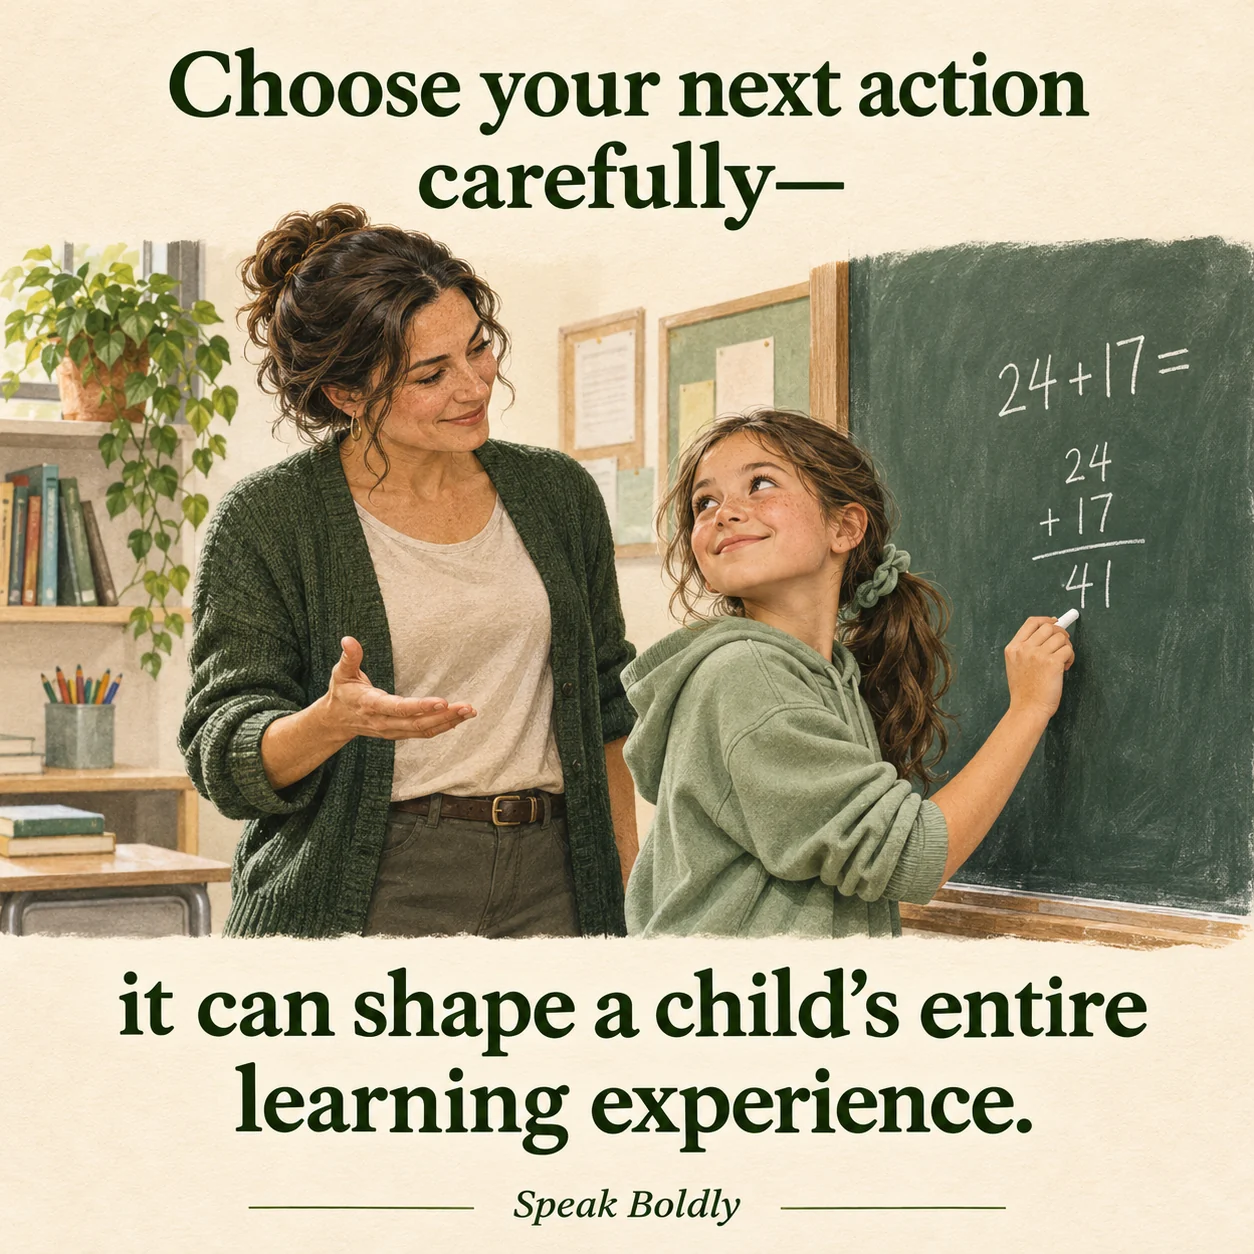
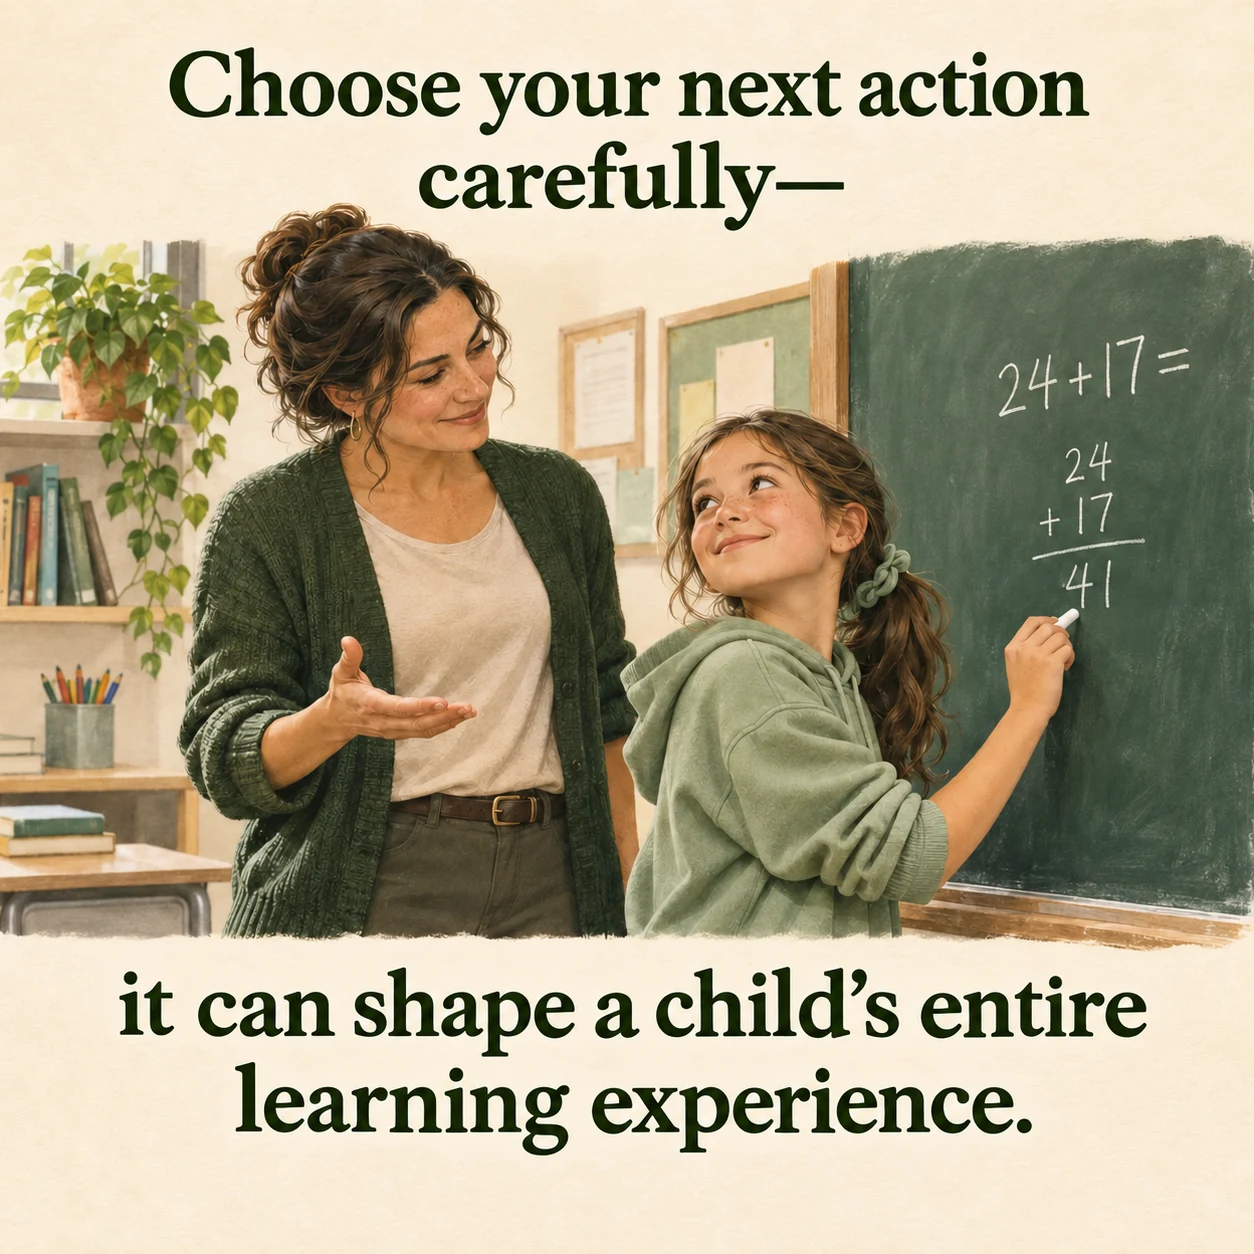
Remove Speak Boldly lettering from the current motivation picture

diff --git a/index.html b/index.html
@@ -59,7 +59,7 @@
 <button type="button" class="page-down-arrow" id="page-down-arrow" aria-label="Go to the bottom of this page" title="Go to bottom" hidden><svg width="24" height="24" viewBox="0 0 24 24" fill="none" aria-hidden="true"><path d="M12 4v15m-6-6 6 6 6-6" stroke="currentColor" stroke-width="1.6" stroke-linecap="round" stroke-linejoin="round"/></svg></button><span id="year" hidden></span>
 <dialog id="program-booking-dialog" class="action-popup" aria-labelledby="program-booking-title"><button type="button" class="popup-close" aria-label="Close booking instructions">×</button><p class="eyebrow" id="booking-program-name"></p><h2 id="program-booking-title">Before you book</h2><p>Please email a 2-minute voice note to Contactus@speakboldly.space. This helps us understand your current level.</p><button id="booking-whatsapp" class="button" type="button" disabled>WhatsApp · coming soon</button><section class="booking-2027" aria-labelledby="booking-2027-title"><h3 id="booking-2027-title">Active starting from 2027</h3><p>Complete both free tests in the <a class="email-link" href="#placement">Assessment tab</a>. Email both result screenshots and your 150 EGP payment screenshot to <a class="email-link" href="mailto:billing@speakboldly.space">billing@speakboldly.space</a> to receive available Zoom assessment times.</p><p>Your Zoom placement assessment lasts 15–20 minutes.</p></section></dialog><dialog id="course-dialog"><button class="close" aria-label="Close course details">×</button><div id="course-detail"></div></dialog>
 <dialog id="course-fees-dialog" class="action-popup" aria-labelledby="course-fees-title"><button type="button" class="popup-close" aria-label="Close session and pricing details">×</button><h2 id="course-fees-title">Session &amp; pricing details</h2><ul><li><svg class="pricing-detail-art" viewBox="0 0 60 60" fill="none" stroke="currentColor" stroke-width="1.4" stroke-linecap="round" stroke-linejoin="round" aria-hidden="true"><path d="M9 13h28l9 9v31H9ZM37 13v10h9M17 32h20M17 40h15M19 6h24l10 10v30"/><path d="m19 24 3 3 6-7"/></svg><span>Your course fees include assessments, progress reports, learning materials, and access to independent practice activities between sessions.</span></li><li><span class="inclusion-symbol" aria-hidden="true"><svg class="pricing-detail-art" viewBox="0 0 60 60" fill="none" stroke="currentColor" stroke-width="1.4" stroke-linecap="round" stroke-linejoin="round"><path d="M7 12q12-6 23 0 12-6 23 0v35q-12-6-23 0-11-6-23 0ZM30 12v35M14 23h10M36 23h10M14 31h10M36 31h10"/></svg></span><span>We use original Speak Boldly learning materials developed specifically for our courses.</span></li><li><svg class="pricing-detail-art" viewBox="0 0 60 60" fill="none" stroke="currentColor" stroke-width="1.4" stroke-linecap="round" stroke-linejoin="round" aria-hidden="true"><rect x="8" y="11" width="42" height="38" rx="3"/><path d="M8 23h42M19 5v12M40 5v12M16 30h6M29 30h6M16 40h6M29 40h6"/><path d="m41 36 3 3 6-7"/></svg><span>Each round lasts four weeks. We recommend 4–6 rounds for noticeable progress.</span></li><li><span class="inclusion-symbol" aria-hidden="true">◎</span><span>Your instructor stays the same throughout the course.</span></li><li><span class="inclusion-symbol" aria-hidden="true">↗</span><span>Always remember that <strong>Progress is a shared responsibility. Your consistency makes the difference!</strong></span></li><li><svg class="pricing-detail-art" viewBox="0 0 60 60" fill="none" stroke="currentColor" stroke-width="1.4" stroke-linecap="round" stroke-linejoin="round" aria-hidden="true"><rect x="8" y="6" width="40" height="29" rx="3"/><path d="M20 35v9M13 44h30"/><circle cx="28" cy="18" r="5"/><path d="M18 29c0-8 20-8 20 0"/></svg><span><strong>All prices are for one-to-one, 90-minute, fully interactive sessions.</strong></span></li></ul><p class="course-funding-note"><svg class="funding-heart" viewBox="0 0 60 60" fill="none" stroke="currentColor" stroke-width="1.5" aria-hidden="true"><path d="M30 46C5 31 6 13 18 12c7-1 12 7 12 7s5-8 12-7c12 1 13 19-12 34Z" fill="#edf0e6"/><path d="M5 43q15 1 24 10 8-8 25-10M15 43l4-7M45 43l-4-7"/></svg><strong>Your fees help others learn.</strong><br>Part of your course fees funds English courses for students in Egypt who cannot afford them. We aim to extend this support to Sudan and other countries soon.</p></dialog><dialog id="quote-dialog-4" class="action-popup" aria-labelledby="quote-dialog-4-title"><button type="button" class="popup-close" aria-label="Close language services enquiry">×</button><h2 id="quote-dialog-4-title">Interpret boldly</h2><p>Interpretation and translation by Speak Boldly. Tell us about your project; we’ll discuss scope, availability and a tailored quotation.</p><form class="quote-request-form" data-request-type="Interpret boldly — interpretation and translation"><label>Your name<input name="name" required maxlength="100" autocomplete="name"></label><label>Email<input name="email" required type="email" autocomplete="email"></label><label>Organisation (optional)<input name="organisation" maxlength="200"></label><label>Service<select name="service"><option>Live interpretation</option><option>Written translation</option><option>Help me choose</option></select></label><label>Languages — from and to<input name="languages" required maxlength="150" placeholder="For example: Arabic → English"></label><label>Project or event<textarea name="description" required rows="4" maxlength="3000" placeholder="Topic, audience, type of material, and any specialist terminology"></textarea></label><label>Date / deadline and time zone<input name="deadline" required maxlength="200"></label><label>Duration or approximate word count<input name="scope" required maxlength="150"></label><label>Online / venue or location<input name="location" maxlength="250"></label><label>Budget range (optional)<input name="budget" maxlength="120"></label><label>Preferred time for an initial discussion<input name="meeting" maxlength="200"></label><button class="button" type="submit">Request a conversation</button><p class="quote-email-status demo-note" role="status"></p></form></dialog><div id="toast" role="status" aria-live="polite"></div><script type="module" src="./platform-time.js?v=roomy-time"></script><script type="module" src="./app.js?v=word-stress-2"></script><script type="module" src="./navigation.js?v=review-navigation-7"></script><script>document.querySelectorAll('.quote-request-form').forEach(form=>form.addEventListener('submit',event=>{event.preventDefault();const data=new FormData(form);const subject='Quote request: '+form.dataset.requestType;const body=['Request type: '+form.dataset.requestType,...Array.from(data,([key,value])=>key+': '+value).filter(line=>!line.endsWith(': '))].join('\n\n');window.location.href='mailto:Contactus@speakboldly.space?subject='+encodeURIComponent(subject)+'&body='+encodeURIComponent(body);form.querySelector('.quote-email-status').textContent='We\'ll get back to you within 48 business hours. Please press Send in your email app to deliver your request.';}));</script><script type="module" src="./popups.js?v=mobile-assessment-page"></script><script type="module" src="./mobile-button-labels.js?v=all-buttons"></script><script type="module" src="./student-install.js?v=learning-hub"></script><script type="module" src="./installed-app-ui.js?v=app-resume"></script><script type="module" src="./pull-to-refresh.js?v=early-touch-capture"></script><script type="module" src="./popup-dismiss.js?v=outside-tap"></script><script type="module" src="./save-feedback.js?v=registration-approval"></script>
-<script type="module" src="./section-guides.js?v=culture-corner-2"></script><script type="module" src="./program-consultation.js?v=success-return-1"></script><script type="module" src="./mobile-swipe-back.js?v=1"></script><script type="module" src="./homepage-fit.js?v=screen-fit"></script><script type="module" src="./feature-loader.js?v=reload-chooser-19"></script><script type="module" src="./loading-ui.js?v=green-ring"></script><script type="module" src="./public-tab-addresses.js?v=speak-hub-3"></script><script type="module" src="./rewards.js?v=covered-wheel-4"></script></body></html>
+<script type="module" src="./section-guides.js?v=culture-corner-2"></script><script type="module" src="./program-consultation.js?v=success-return-1"></script><script type="module" src="./mobile-swipe-back.js?v=1"></script><script type="module" src="./homepage-fit.js?v=screen-fit"></script><script type="module" src="./feature-loader.js?v=unbranded-motivation-20"></script><script type="module" src="./loading-ui.js?v=green-ring"></script><script type="module" src="./public-tab-addresses.js?v=speak-hub-3"></script><script type="module" src="./rewards.js?v=covered-wheel-4"></script></body></html>
 
 
 

diff --git a/feature-loader.js b/feature-loader.js
@@ -10,7 +10,7 @@ export function initializeFeatureLoader(doc,win){
   'students-portal':['./learning-hub-entry.js?v=reload-chooser-11'],
   'assessment':['./placement-assessment.js?v=brief-personal-2'],
   'reviews':['./reviews.js?v=complete-cards-4'],
-  'daily-quote':['./home-gallery.js?v=math-email-6'],
+  'daily-quote':['./home-gallery.js?v=unbranded-motivation-7'],
   'learner-profile':['./learner-profile.js?v=brief-personal-2'],
   'learner-results':['./learner-profile.js?v=brief-personal-2'],
   'boldly-notes':['./boldly-notes.js?v=consistency-words-5']
@@ -26,7 +26,7 @@ export function initializeFeatureLoader(doc,win){
 
  async function load(){const key=win.location.hash.slice(1).split('/')[0],modules=groups[key];if(key==='assessment'){void assessment();return;}if(key==='students-portal'&&win.location.hash.endsWith('/teacher'))void ensureAdmin();if(!modules||pending.has(key))return;const root=doc.getElementById(key);if(!root)return;const spinner=doc.createElement('p');if(key==='daily-quote')spinner.hidden=true;spinner.className='sb-loading';spinner.dataset.loading='true';spinner.setAttribute('role','status');spinner.setAttribute('aria-label','Loading');root.prepend(spinner);const buttons=key==='students-portal'?[...root.querySelectorAll('[data-portal-area]')]:[];buttons.forEach(b=>b.disabled=true);
  const task=Promise.all(modules.map(module=>import(module)));pending.set(key,task);try{await task;buttons.forEach(b=>b.disabled=false);if(key==='students-portal'&&['#students-portal/student','#students-portal/calendar'].includes(win.location.hash)&&root.querySelector('#client-portal')?.hidden)root.querySelector('[data-portal-area=client]')?.click();if(key==='students-portal'&&win.location.hash.endsWith('/teacher')&&await ensureAdmin())root.querySelector('[data-portal-area=admin]')?.click();spinner.remove();}catch{pending.delete(key);spinner.className='';delete spinner.dataset.loading;spinner.textContent='This section could not load. ';const retry=doc.createElement('button');retry.type='button';retry.className='button light small';retry.textContent='Try again';retry.onclick=()=>{spinner.remove();void load();};spinner.append(retry);}finally{buttons.forEach(b=>b.disabled=false);}}
- const warmMotivation=()=>{if((!win.location.hash||win.location.hash==='#home')&&!doc.hidden)void import('./home-gallery.js?v=math-email-6').catch(()=>{});};if(win.requestIdleCallback)win.requestIdleCallback(warmMotivation,{timeout:2000});else win.setTimeout(warmMotivation,1500);doc.addEventListener('pointerover',event=>{if(event.target.closest?.('[data-open-view="daily-quote"],a[href*="/learn/daily-quotes/"]'))warmMotivation();},{passive:true});
+ const warmMotivation=()=>{if((!win.location.hash||win.location.hash==='#home')&&!doc.hidden)void import('./home-gallery.js?v=unbranded-motivation-7').catch(()=>{});};if(win.requestIdleCallback)win.requestIdleCallback(warmMotivation,{timeout:2000});else win.setTimeout(warmMotivation,1500);doc.addEventListener('pointerover',event=>{if(event.target.closest?.('[data-open-view="daily-quote"],a[href*="/learn/daily-quotes/"]'))warmMotivation();},{passive:true});
  win.addEventListener('hashchange',load);void load();if(doc.querySelector('#assessment-dialog')?.open)void assessment();
 }
 if(typeof document!=='undefined')initializeFeatureLoader(document,window);

diff --git a/home-gallery.js b/home-gallery.js
@@ -1,4 +1,4 @@
-import {motivationPreviews} from './motivation-preview-images.js?v=email-compatible-4';
+import {motivationPreviews} from './motivation-preview-images.js?v=unbranded-motivation-5';
 import {motivationDay,refreshMotivationSettings,motivationSettings,setMotivationSettings,MOTIVATION_PIN} from './motivation-settings.js?v=weekly-2';
 // Update this list to change the daily pictures and quotes.
 export const dailyQuotes = [
